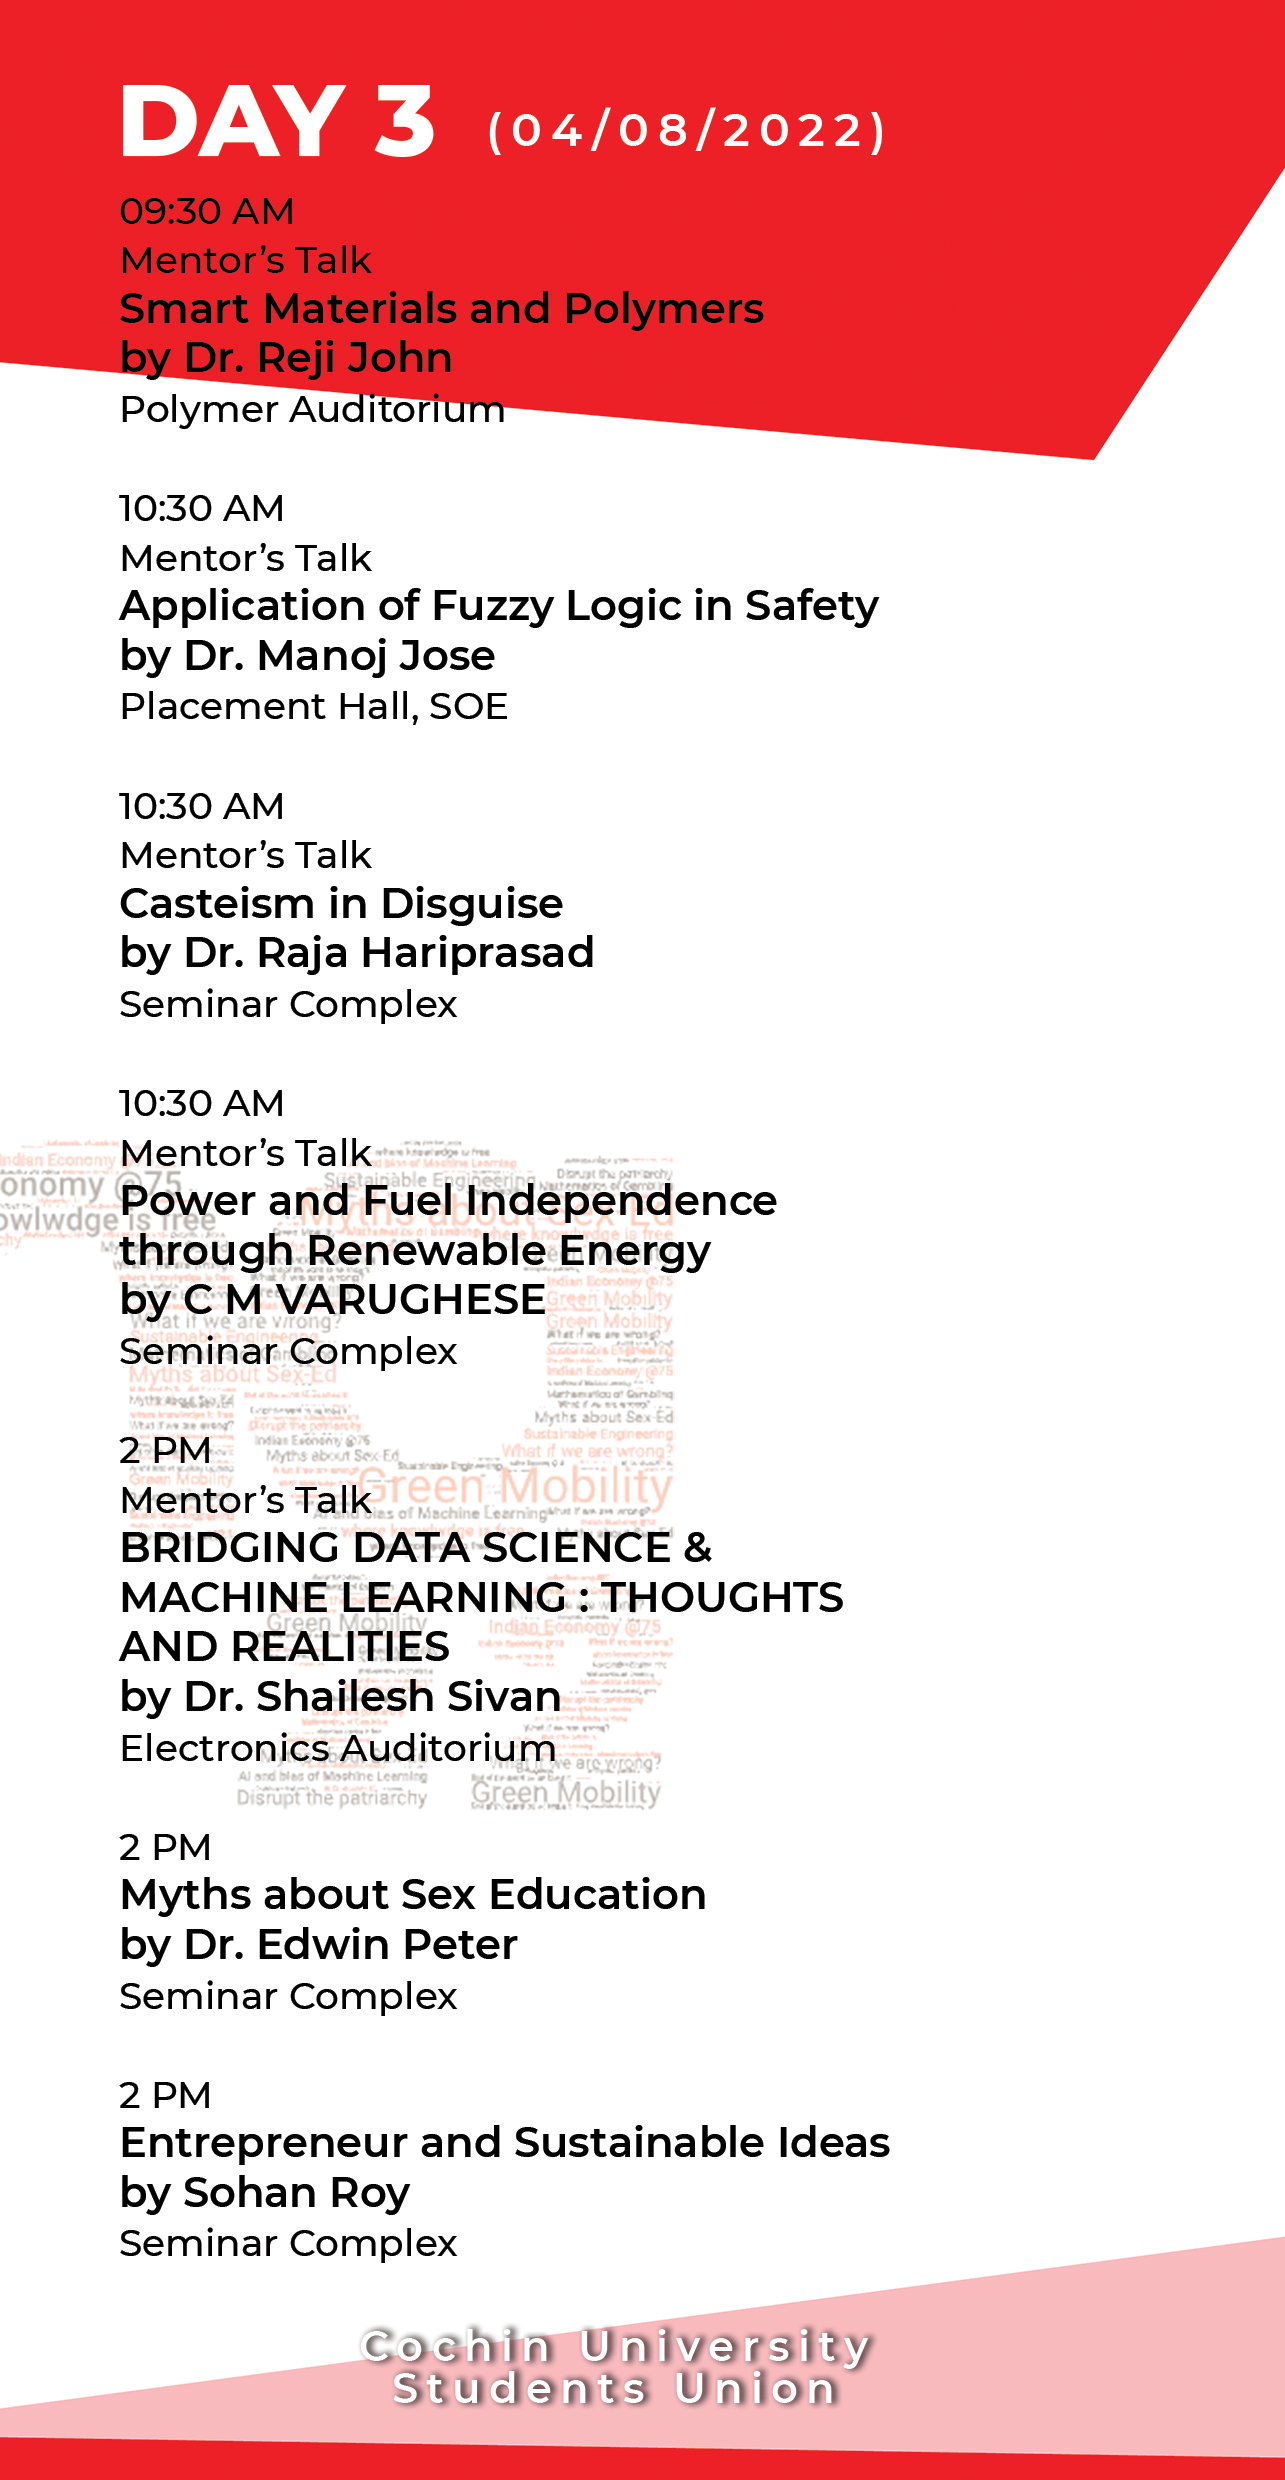
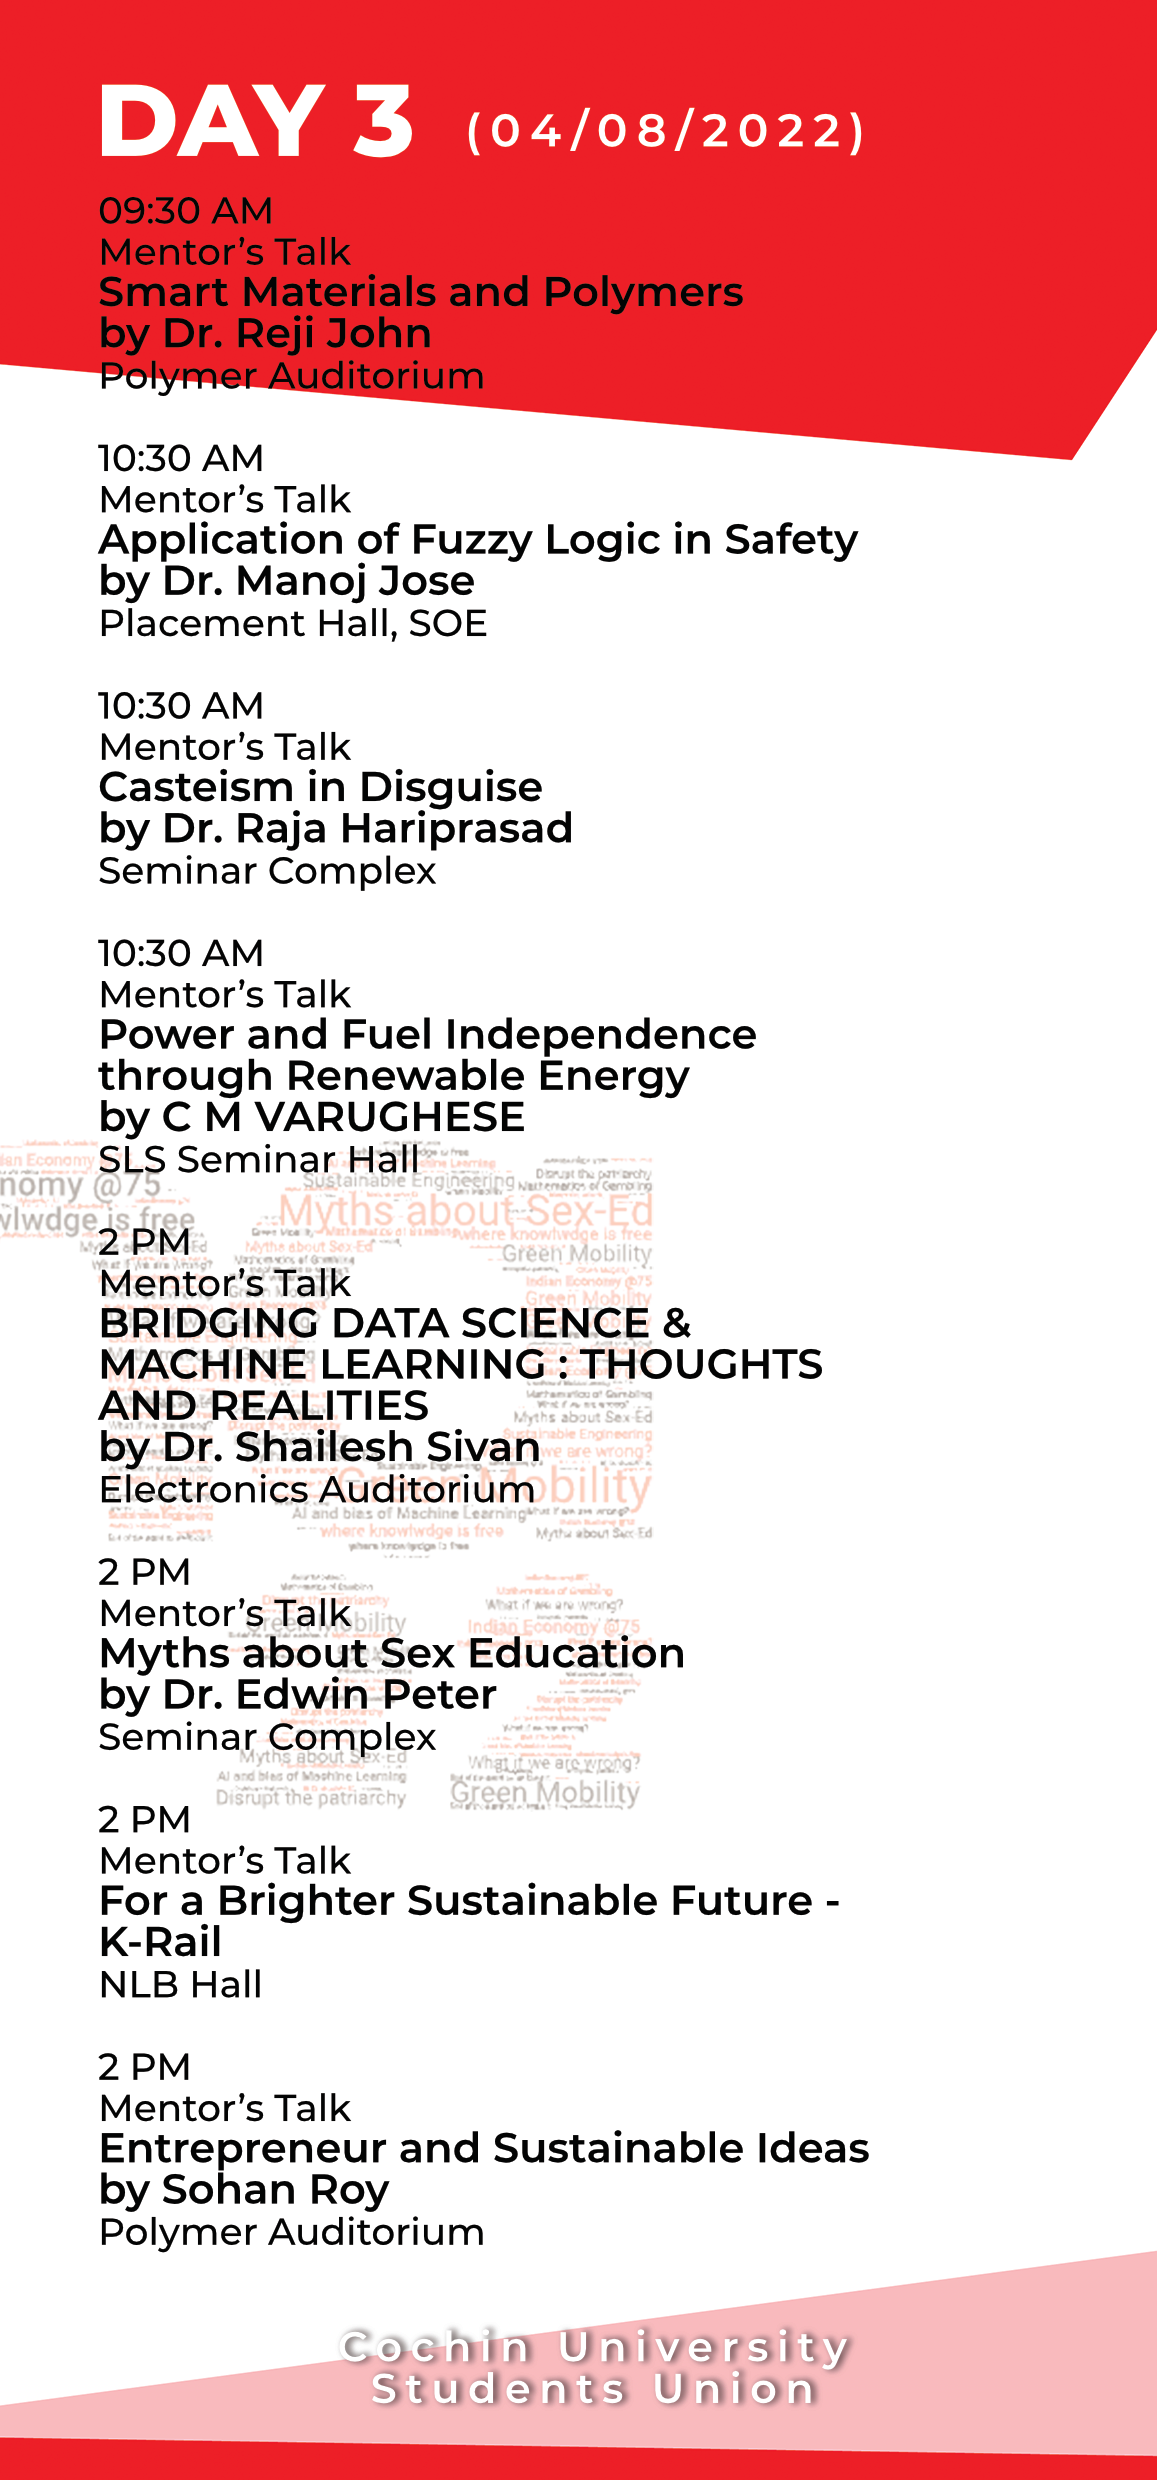
update

Changed region(s): [[0.0, 0.031, 1.0, 0.9935], [0.7468, 0.0621, 1.0, 0.1863]]

diff --git a/index.html b/index.html
@@ -82,9 +82,7 @@
   <section class="bg-white text-center border-b py-8">
 
     <div class="text-2xl text-black">
-      Mentor's Talk in the topic  "Blockchain : NFT Metaverse" has been shifted to Electronics Auditorium
-      <br>
-    </marquee>
+      </marquee>
       <div class="container max-w-5xl mx-auto m-8">
         <h1 class="w-full my-2 text-5xl font-bold leading-tight text-center text-gray-800">
           Cultural Events
@@ -93,14 +91,7 @@
           <div class="h-1 mx-auto gradient w-64 opacity-25 my-0 py-0 rounded-t"></div>
         </div>
         <div class="flex justify-center flex-wrap">
-          <div class="w-5/6  sm:w-1/2 p-6">
-            <img class="radius-full" src="anaswara.png" alt="">
 
-          </div>
-          <div class="w-full sm:w-1/2 p-6">
-            <img class="radius-full" src="shane.jpg" alt="">
-
-          </div>
         </div>
         <div class="flex justify-center flex-wrap">
           <div class="w-5/6  sm:w-1/2 p-6">
@@ -126,34 +117,7 @@
       <div class="w-full mb-4">
         <div class="h-1 mx-auto gradient w-64 opacity-25 my-0 py-0 rounded-t"></div>
       </div>
-      <div class="flex justify-center flex-wrap">
-        <div class="w-5/6  sm:w-1/2 p-6">
-          <h3 class="text-3xl text-gray-800 text-center font-bold leading-none mb-3">
-            IDEATHON in Association with Kerala Startup Mission
-          </h3>
-          <p class="text-gray-600 h-full  mb-8">
-            A platform to share innovative ideas. This could be the beginning of your new venture. We are conducting an
-            IDEATHON as part of Medha'22 on 11am 2nd August 2022(Medha Day - 1). Potential ideas might get support from
-            Kerala Start-up Mission and CUSAT start-up ecosystem.
-            <br>
-            <br>
-            For enquiries, Contact :
-            <br>
-            Sunith : 90721 24291
-            <br>
-            Ishwak : 89212 56718
-            <br />
-            <br />
-            <a class=" mx-auto lg:mx-0 hover:underline gradient text-white font-bold rounded-full my-6 py-4 px-8 shadow-lg focus:outline-none focus:shadow-outline transform transition hover:scale-105 duration-300 ease-in-out"" href="
-              https://forms.gle/tJeU6eYMXgrb2Ewr7">
-              Register
-            </a>
-          </p>
-        </div>
-        <div class="w-full sm:w-1/2 p-6">
-          <img class="radius-full" src="idea.png" alt="">
-        </div>
-      </div>
+
       <div class="flex flex-wrap flex-col-reverse sm:flex-row">
         <div class="w-full sm:w-1/2 p-6 mt-6">
           <img src="exhibit.png" alt="">
@@ -179,6 +143,30 @@
               Register
             </a>
           </div>
+        </div>
+        <div class="w-full sm:w-1/2 p-6 mt-6">
+          <div class="align-middle">
+            <h3 class="text-3xl text-gray-800 font-bold leading-none mb-3">
+              Casteism in Disguise
+            </h3>
+            <p class="text-gray-800 text-base mt-5 px-6 mb-5">
+              Existence of the veiled casteism is a pure reality. The threat of the same is being ignored. The talk
+              addresses this reality.
+              <br>
+              <br><br>
+              For enquiries, contact :
+              <br>
+              Jithya : 77366 13349 <br>
+              Analkrishna : 73067 39318
+            </p>
+            <a class=" mx-auto lg:mx-0 hover:underline gradient text-white font-bold rounded-full my-6 py-4 px-8 shadow-lg focus:outline-none focus:shadow-outline transform transition hover:scale-105 duration-300 ease-in-out"" href="
+              https://forms.gle/tJeU6eYMXgrb2Ewr7">
+              Register
+            </a>
+          </div>
+        </div>
+        <div class="w-full sm:w-1/2 p-6">
+          <img class="radius-full" src="caste.png" alt="">
         </div>
       </div>
     </div>
@@ -206,6 +194,39 @@
       <div class="w-full md:w-1/3 p-6 flex flex-col flex-grow flex-shrink">
         <div class="flex-1 bg-white rounded-t rounded-b-none overflow-hidden shadow">
           <a href="#" class="flex flex-wrap no-underline hover:no-underline">
+            <img src="krail.png" alt="">
+            <p class="text-gray-800 mt-5 text-base px-6 mb-5">
+              FOR A BRIGHTER, SUSTAINABLE FUTURE K-RAIL
+              Medha' 22 | Day 3
+              (04/08/2022)
+              Wanna know more about the proposed K-Rail plan and the discussion going on about it? Join us on this talk
+              to get a comprehensive view.
+
+              <br>
+              <br>
+              <br>
+              For enquiries, Contact :
+
+              <br>
+              Surya : 7306944970
+
+              <br>
+              Swathy : 7558812685
+            </p>
+          </a>
+        </div>
+        <div class="flex-none mt-auto bg-white rounded-b rounded-t-none overflow-hidden shadow p-6">
+          <div class="flex items-center justify-center">
+            <a class=" mx-auto  lg:mx-0 mx-auto hover:underline gradient text-white font-bold rounded-full my-6 py-4 px-8 shadow-lg focus:outline-none focus:shadow-outline transform transition hover:scale-105 duration-300 ease-in-out"" href="
+              https://forms.gle/tJeU6eYMXgrb2Ewr7">
+              Register
+            </a>
+          </div>
+        </div>
+      </div>
+      <div class="w-full md:w-1/3 p-6 flex flex-col flex-grow flex-shrink">
+        <div class="flex-1 bg-white rounded-t rounded-b-none overflow-hidden shadow">
+          <a href="#" class="flex flex-wrap no-underline hover:no-underline">
 
             <img src="fortune.png" alt="">
 
@@ -229,31 +250,7 @@
           </div>
         </div>
       </div>
-      <div class=" w-full md:w-1/3 p-6 flex flex-col flex-grow flex-shrink">
-        <div class="flex-1 bg-white rounded-t rounded-b-none overflow-hidden shadow">
-          <a href="#" class="flex flex-wrap no-underline hover:no-underline">
-            <img src="caste.png" alt="">
-            <p class="text-gray-800 text-base mt-5 px-6 mb-5">
-              Existence of the veiled casteism is a pure reality. The threat of the same is being ignored. The talk
-              addresses this reality.
-              <br>
-              <br><br>
-              For enquiries, contact :
-              <br>
-              Jithya : 77366 13349 <br>
-              Analkrishna : 73067 39318
-            </p>
-          </a>
-        </div>
-        <div class="flex-none mt-auto bg-white rounded-b rounded-t-none overflow-hidden shadow p-6">
-          <div class="flex items-center justify-center">
-            <a class=" mx-auto lg:mx-0 hover:underline gradient text-white font-bold rounded-full my-6 py-4 px-8 shadow-lg focus:outline-none focus:shadow-outline transform transition hover:scale-105 duration-300 ease-in-out"" href="
-              https://forms.gle/tJeU6eYMXgrb2Ewr7">
-              Register
-            </a>
-          </div>
-        </div>
-      </div>
+
       <div class="w-full md:w-1/3 p-6 flex flex-col flex-grow flex-shrink">
         <div class="flex-1 bg-white rounded-t rounded-b-none overflow-hidden shadow">
           <a href="#" class="flex flex-wrap no-underline hover:no-underline">
@@ -639,39 +636,7 @@
           </div>
         </div>
       </div>
-      <div class="w-full md:w-1/3 p-6 flex flex-col flex-grow flex-shrink">
-        <div class="flex-1 bg-white rounded-t rounded-b-none overflow-hidden shadow">
-          <a href="#" class="flex flex-wrap no-underline hover:no-underline">
-            <img src="krail.png" alt="">
-            <p class="text-gray-800 mt-5 text-base px-6 mb-5">
-              FOR A BRIGHTER, SUSTAINABLE FUTURE K-RAIL
-              Medha' 22 | Day 3
-              (04/08/2022)
-              Wanna know more about the proposed K-Rail plan and the discussion going on about it? Join us on this talk
-              to get a comprehensive view.
 
-              <br>
-              <br>
-              <br>
-              For enquiries, Contact :
-
-              <br>
-              Surya : 7306944970
-
-              <br>
-              Swathy : 7558812685
-            </p>
-          </a>
-        </div>
-        <div class="flex-none mt-auto bg-white rounded-b rounded-t-none overflow-hidden shadow p-6">
-          <div class="flex items-center justify-center">
-            <a class=" mx-auto  lg:mx-0 mx-auto hover:underline gradient text-white font-bold rounded-full my-6 py-4 px-8 shadow-lg focus:outline-none focus:shadow-outline transform transition hover:scale-105 duration-300 ease-in-out"" href="
-              https://forms.gle/tJeU6eYMXgrb2Ewr7">
-              Register
-            </a>
-          </div>
-        </div>
-      </div>
       <div class="w-full md:w-1/3 p-6 flex flex-col flex-grow flex-shrink">
         <div class="flex-1 bg-white rounded-t rounded-b-none overflow-hidden shadow">
           <a href="#" class="flex flex-wrap no-underline hover:no-underline">
@@ -729,7 +694,24 @@
           </div>
         </div>
       </div>
-
+      <div class="w-full md:w-1/3 p-6 flex flex-col flex-grow flex-shrink">
+        <div class="flex-1 bg-white rounded-t rounded-b-none overflow-hidden shadow">
+          <a href="#" class="flex flex-wrap no-underline hover:no-underline">
+            <img src="" alt="">
+            <p class="text-gray-800 mt-5 text-base px-6 mb-5">
+              
+            </p>
+          </a>
+        </div>
+        <div class="flex-none mt-auto bg-white rounded-b rounded-t-none overflow-hidden shadow p-6">
+          <div class="flex items-center justify-center">
+            <a class=" mx-auto hidden lg:mx-0 mx-auto hover:underline gradient text-white font-bold rounded-full my-6 py-4 px-8 shadow-lg focus:outline-none focus:shadow-outline transform transition hover:scale-105 duration-300 ease-in-out"" href="
+              https://forms.gle/tJeU6eYMXgrb2Ewr7">
+              Register
+            </a>
+          </div>
+        </div>
+      </div>
     </div>
   </section>
 
